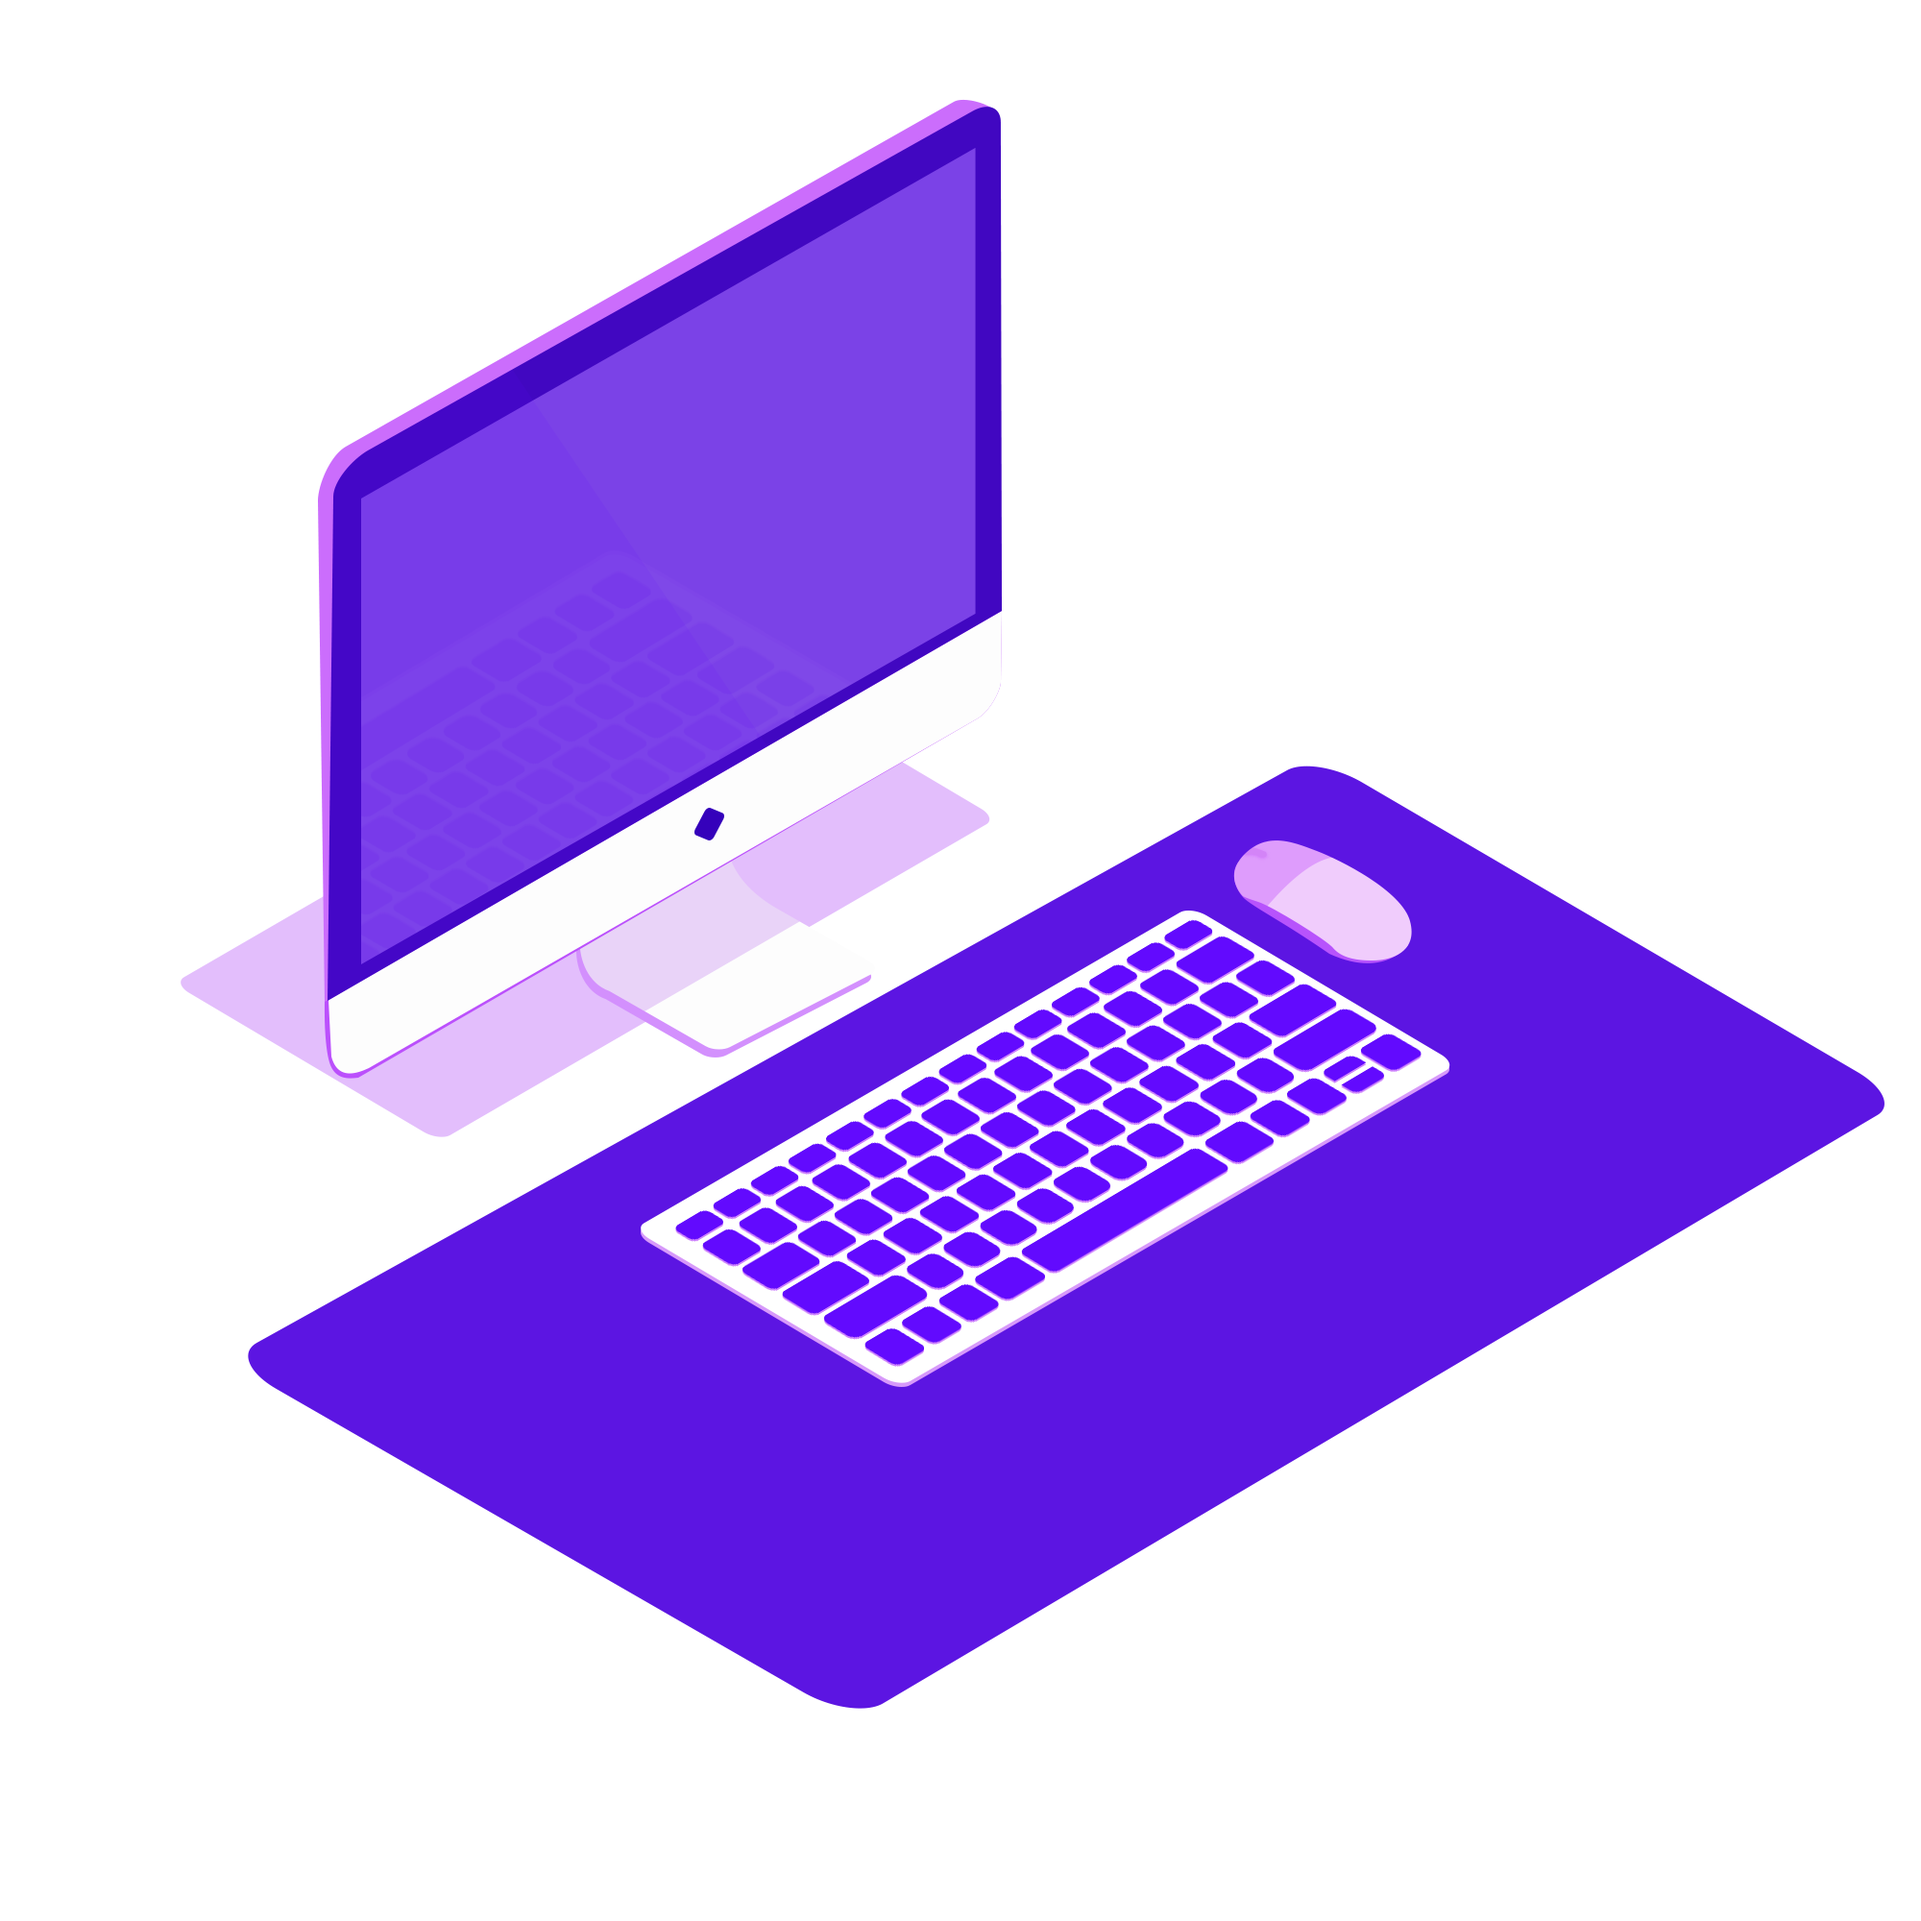
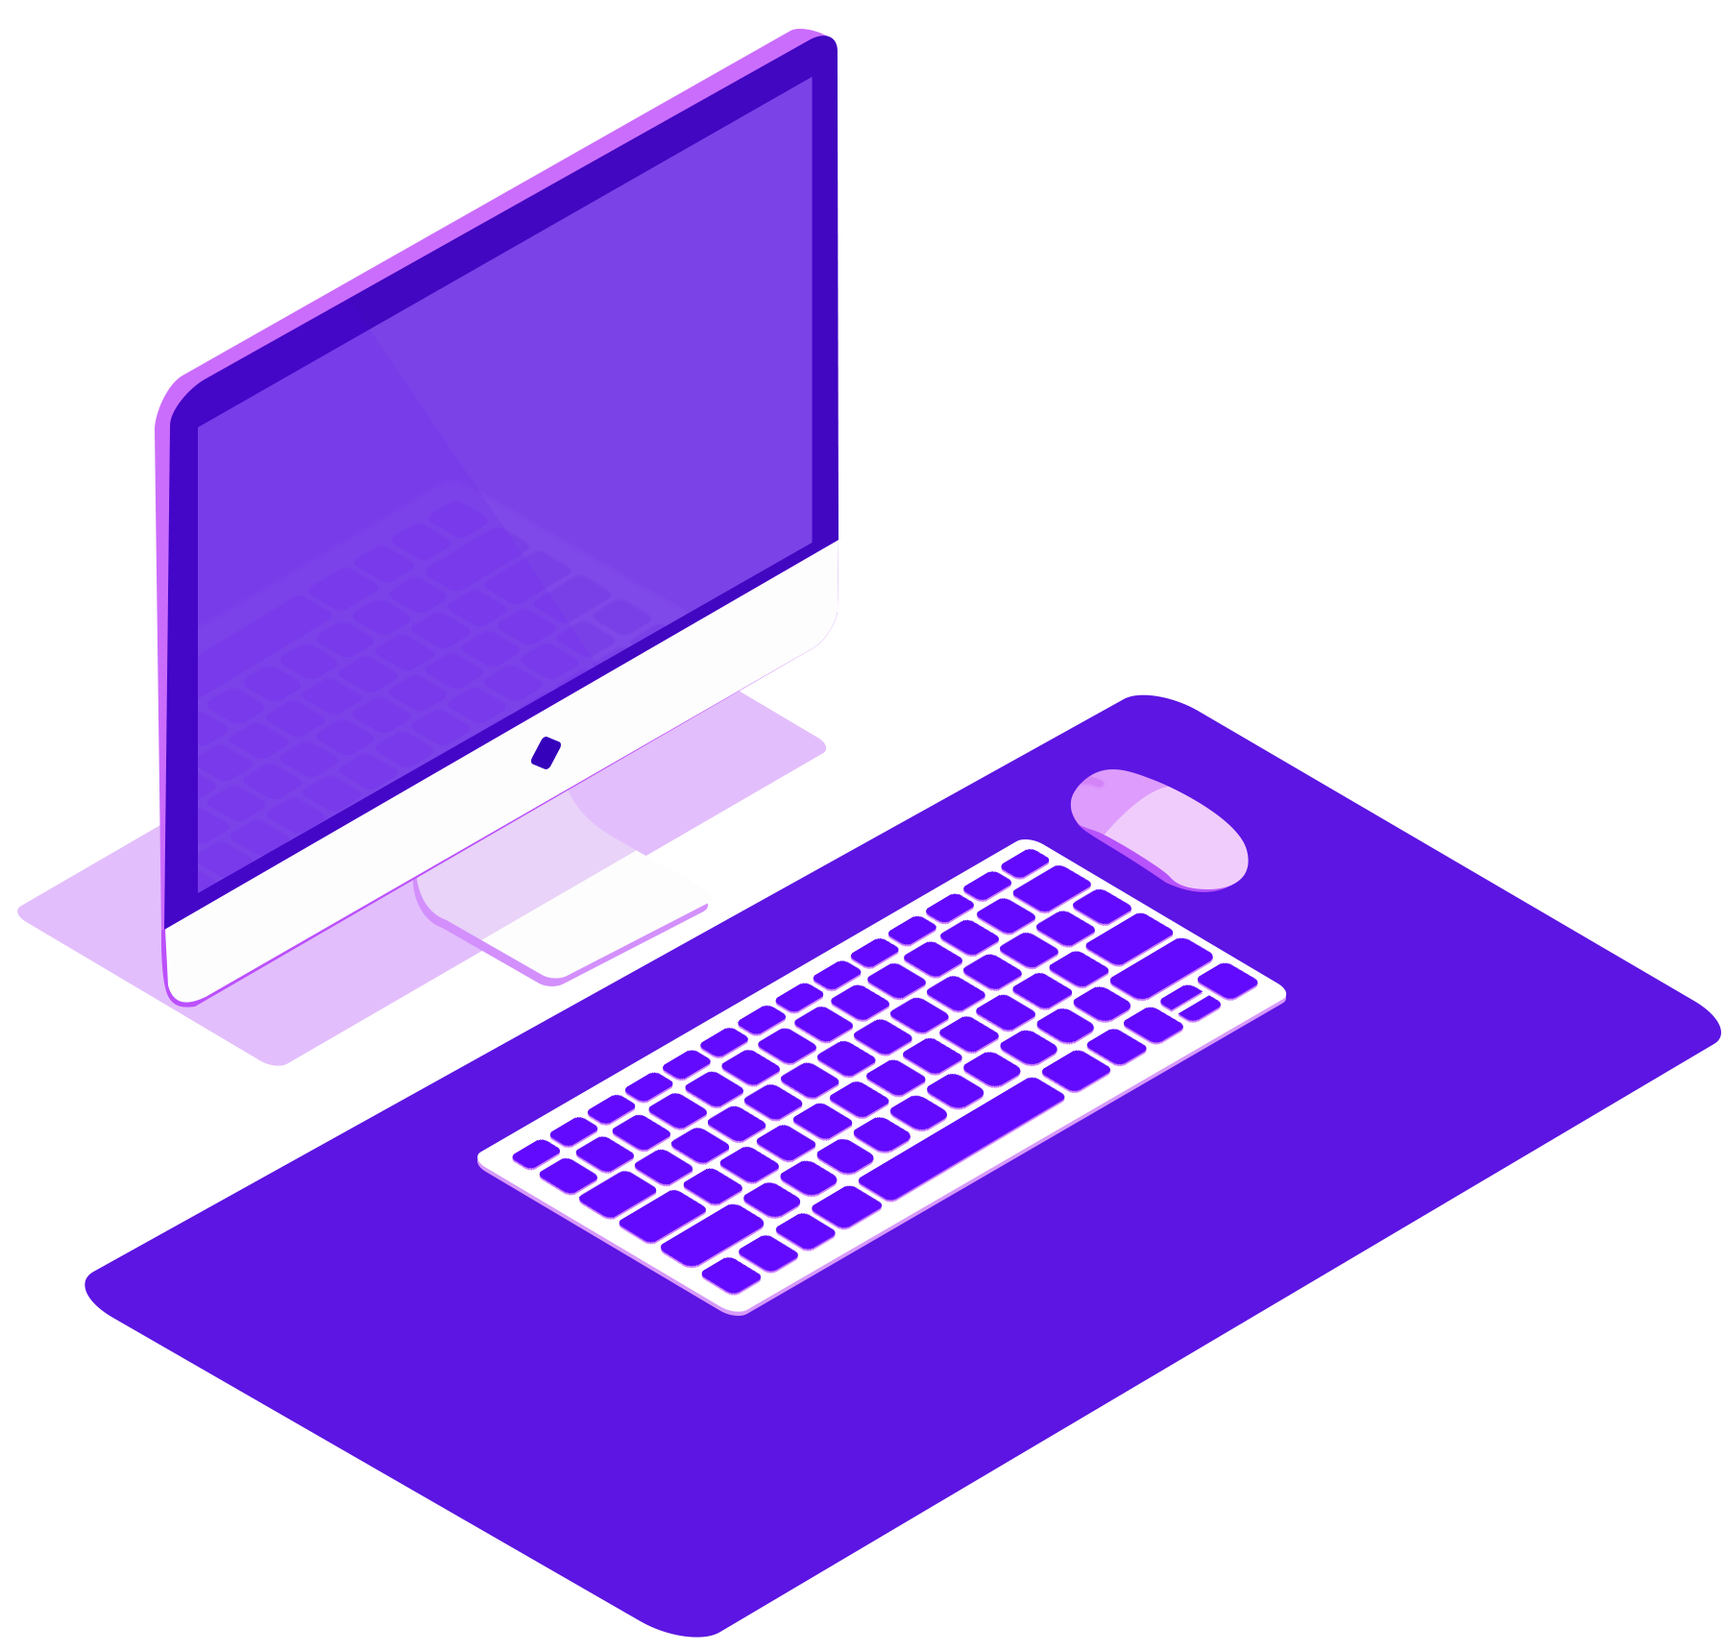
pc image cut, footer links working

Changed region(s): [[0.0, 0.0, 0.9972, 1.0]]

diff --git a/src/styles/components/_About.scss b/src/styles/components/_About.scss
@@ -7,6 +7,7 @@
     grid-template-columns: 1fr 1fr;
     justify-items: center;
     overflow: hidden;
+    gap: 50px;
 }
 
 .about-img-container{
@@ -20,7 +21,7 @@
 .img{
     position: relative;
     justify-self: left;
-   top: -50px;
+    top: -30%;
     max-width: 100%; 
 }
 
@@ -36,26 +37,26 @@
     box-sizing:border-box;
     border-radius: 5px;
     justify-self: right;
-    // background: $colorWhite;
     position: relative;
     text-align: right;
     h1{
         font-size: var(--fontH1);
-        color: $colorWhite;
+        background-color: transparent;
+        color: $colorRed;
         margin-bottom: 20px;
-        background: linear-gradient(90deg, transparent, $colorPurple);
         padding: 0 10px;
     };
     h2{
         display: inline;
         &:nth-child(2){
-            color: $colorRed;
-        }
-        &:nth-child(3){
             color: $colorOrange;
         }
-        &:nth-child(4){
+        &:nth-child(3){
             color: $colorRed;
+            color: $colorRed;
+        }
+        &:nth-child(4){
+            color: $colorOrange;
         }
     }
 
@@ -72,22 +73,37 @@
     display: grid;
     grid-template-columns: 1fr 1fr;
     column-gap: 50px;
-    margin-top: 50px;
-    .skills-container{
+    max-height: 40vh;
+    
+    .skills-container{    
         position: relative;
         column-gap: 50px;
         display: grid;
-        grid-template-columns: 1fr 1fr;
-        // background-color: $colorWhite;
-        max-width: 400px;
-        max-height: 300px;
-        .ico{
-            max-width: 50px;
-            max-height: 50px;
+        justify-content: center;
+        align-items: center;
+        justify-items: center;
+        .ico-div{
+            margin: 0;
+            padding: 0;
+    
+            max-width: 3vw;
+            min-width: 40px;
             &:nth-child(3){
                 grid-column: span 2;
                 justify-self: center;
             }
+        }
+        grid-template-columns: 1fr 1fr;
+        // background-color: $colorWhite;
+        min-width: 15vw;
+     
+        .ico{
+            margin: 0;
+            padding: 0;
+            width: 100%;
+            
+            
+            
         }
     }
 }

diff --git a/src/components/About.jsx b/src/components/About.jsx
@@ -31,11 +31,11 @@ export const About = ()=>{
     const backIcos = [ico6, ico4, ico3, ico5, ico10]
     const icos = frontIcos.concat(backIcos)
    return (
-        <div className={`about-container ${theme}`} id="about">
+        <div className={`about-container ${theme}`} >
             
-            <div className={`${theme} about-card light `}>            
+            <div className={`${theme} about-card light ` } id="about">            
                 <AnimationOnScroll duration={.5} animateIn="animate__fadeInRightBig">
-                    <h1 className="light">Skills</h1>
+                    <h1 className="light">Tecnologias</h1>
                     <h2>Frontend</h2>
                     <h2> & </h2>
                     <h2>Backend</h2>
@@ -50,18 +50,18 @@ export const About = ()=>{
             <div className="skills-main">
                 <div className="skills-container">
                     {frontIcos?.map((e,i) => 
-                    <div className="ico" key={i}>
-                        <AnimationOnScroll  duration={Math.random()} animateIn="animate__zoomIn">
+                    <div className="ico-div" key={i}>
+                        <AnimationOnScroll  duration={Math.random()}  offset={0} animateIn="animate__zoomIn">
                             <img  className="ico" src={e}/>
-                            </AnimationOnScroll>
+                        </AnimationOnScroll>
                     </div>)}
                 </div>
                 <div className="skills-container">
                     {backIcos?.map((e,i) => 
-                    <div className="ico" key={i}>
+                    <div className="ico-div" key={i}>
                         <AnimationOnScroll  duration={.5} animateIn="animate__zoomIn">
                             <img  className="ico" src={e}/>
-                            </AnimationOnScroll>
+                        </AnimationOnScroll>
                     </div>)}
                 </div>
                 <div className="text-container">

diff --git a/src/components/Footer.jsx b/src/components/Footer.jsx
@@ -30,19 +30,19 @@ export const Footer = () =>{
             </AnimationOnScroll>
                 <div className="contact-container">
                     <AnimationOnScroll duration={.5} offset={10} animateIn="animate__zoomIn">
-                        <a className={`button2 ${theme}`} target="blank">
+                        <a className={`button2 ${theme}`} href={"https://github.com/Leandro-Larrea"} target="_blank">
                             <img src={github}/>
                             GitHub
                         </a>
                     </AnimationOnScroll>
                     <AnimationOnScroll duration={.5} offset={10} delay={300} animateIn="animate__zoomIn">
-                        <a className={`button2 ${theme}`} target="blank">
+                        <a className={`button2 ${theme}`} href="https://api.whatsapp.com/send?phone=542314440302" target="_blank" rel="noopener noreferrer" >
                             <img src={whatsapp}/>
-                            whatsapp
+                            +54-2313-440302
                         </a>
                     </AnimationOnScroll>
                     <AnimationOnScroll duration={.5} offset={10} delay={600} animateIn="animate__zoomIn">
-                        <a className={`button2 ${theme}`} target="blank">
+                        <a className={`button2 ${theme}`} href={"https://www.linkedin.com/in/leandro-gustavo-larrea-11bb90249/"}target="_blank">
                             <img src={linkedin}/>
                             linkedin
                         </a>

diff --git a/src/styles/components/_projects.scss b/src/styles/components/_projects.scss
@@ -14,14 +14,13 @@
             height: 50px;
             margin: 10px 10px 10px;
             border-radius: 3px;
-            
-            border: 1px solid none;
+            border: none;
             font-size: 16px;
             cursor: pointer;
             transition: 0.1s;
             &:hover{
                 transform: scale(1.1);
-                background-color: rgb(48, 131, 190);
+                background-color:$colorPurple;
                 color: white;
             }
         }
@@ -118,8 +117,7 @@
     .projects-description{
         margin-top: 50px;
         padding: 10px;
-        min-height: 120px;
-        
+        min-height: 120px;   
     }
     // box-shadow: 3px 3px 20px rgb(66, 65, 65);
     transition: .3s;
@@ -137,7 +135,7 @@
             border-radius: 10px;    
             transition: 0.2s;
             text-decoration: none;
-            border: 1px solid;
+            border: .5px solid;
             @include flex($justify: space-around);
            
             img{

diff --git a/src/components/nav.jsx b/src/components/nav.jsx
@@ -9,7 +9,6 @@ export const Nav = () =>{
     
     const scrollPosition = useScrollPostion()
     const { theme, setTheme } = useContext(ThemeContext);
-  
 
     const x = (e)=>{
         setTheme(theme ==="dark"? "light": "dark")
@@ -34,10 +33,10 @@ export const Nav = () =>{
                 onClick={x}>
                 <FaToggleOn color={theme} size={"24px"}/>
             </button>
-                <a href="#contact" className={`${theme}`}>Contact</a>
-                <a href="#projects" className={`${theme}`}>Projects</a>
-                <a href="#about" className={`${theme}`}>About</a>
-                <a href="#home" className={`${theme}`}>Home</a>
+                <a href="#contact" className={`${theme}`}>Contacto</a>
+                <a href="#projects" className={`${theme}`}>Proyectos</a>
+                <a href="#about" className={`${theme}`}>Tecnologias</a>
+                <a href="#home" className={`${theme}`}>Inicio</a>
             </div>
         </nav>
     )

diff --git a/src/components/Form.jsx b/src/components/Form.jsx
@@ -26,11 +26,11 @@ export const ContactUs = () => {
 
   return (
     <form ref={form} className="form" onSubmit={sendEmail}>
-      <label className="label" htmlFor='user_name'>Name</label>
-      <input className={`input ${theme}`} type="text" name="user_name" id='"user_name"' />
-      <label className="label" htmlFor='user_email'>Email</label>
-      <input className={`input ${theme}`} type="email" name="user_email" />
-      <label className="label" htmlFor='message'>Message</label>
+      
+      <input placeholder='Nombre*' className={`input ${theme}`} type="text" name="user_name" id='"user_name"' />
+      
+      <input placeholder='marcelito' className={`input ${theme}`} type="email" name="user_email" />
+      
       <textarea className={`${theme}`} name="message" />
       <button className={`submit ${theme}`} type="submit">Enviar</button>
     </form>

diff --git a/src/styles/components/_footer.scss b/src/styles/components/_footer.scss
@@ -32,14 +32,16 @@
         @include flex($justify: flex-start);
         gap: 35px;
         a{
+            text-decoration: none;
             font-size: var(--fontA);
             cursor: pointer;
             @include flex($justify: space-between);
-            width: 40%;
+            
             &:hover{
                 transform: scale(1.1);
             }
             img{
+                margin: 10px;
                 width: 40px;
                 &:hover{
                     transform: scale(1.1);
